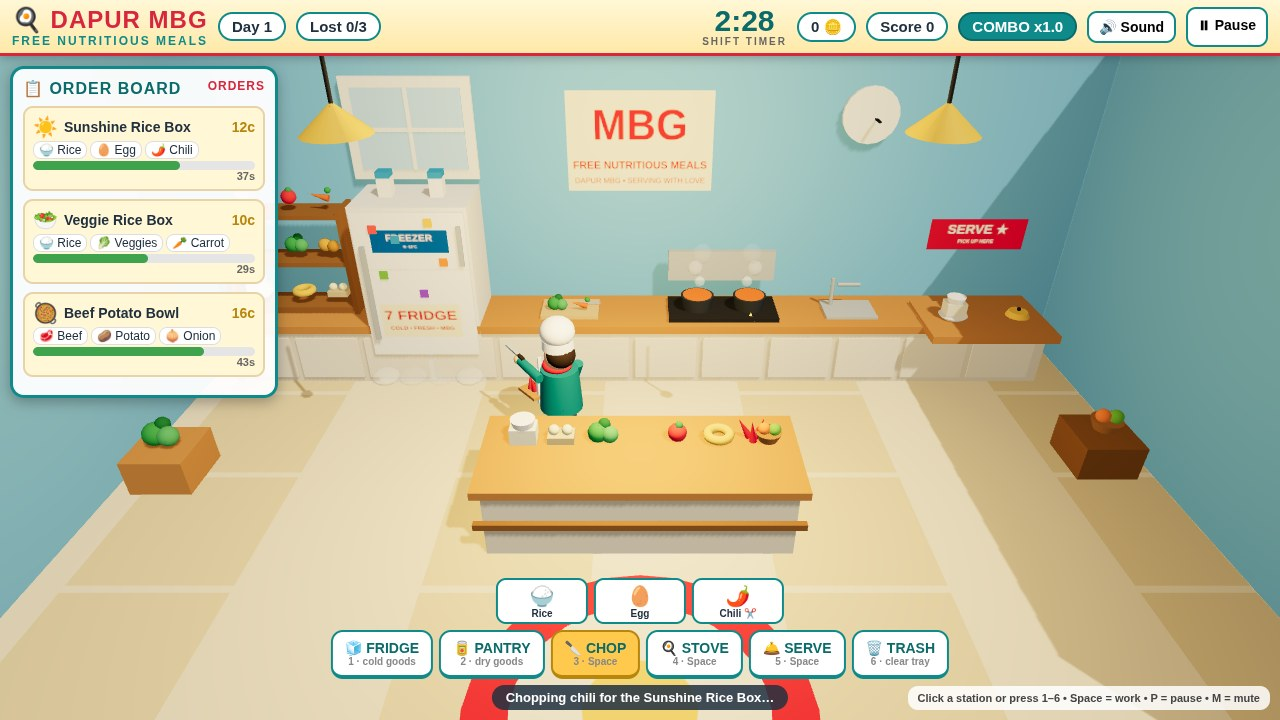
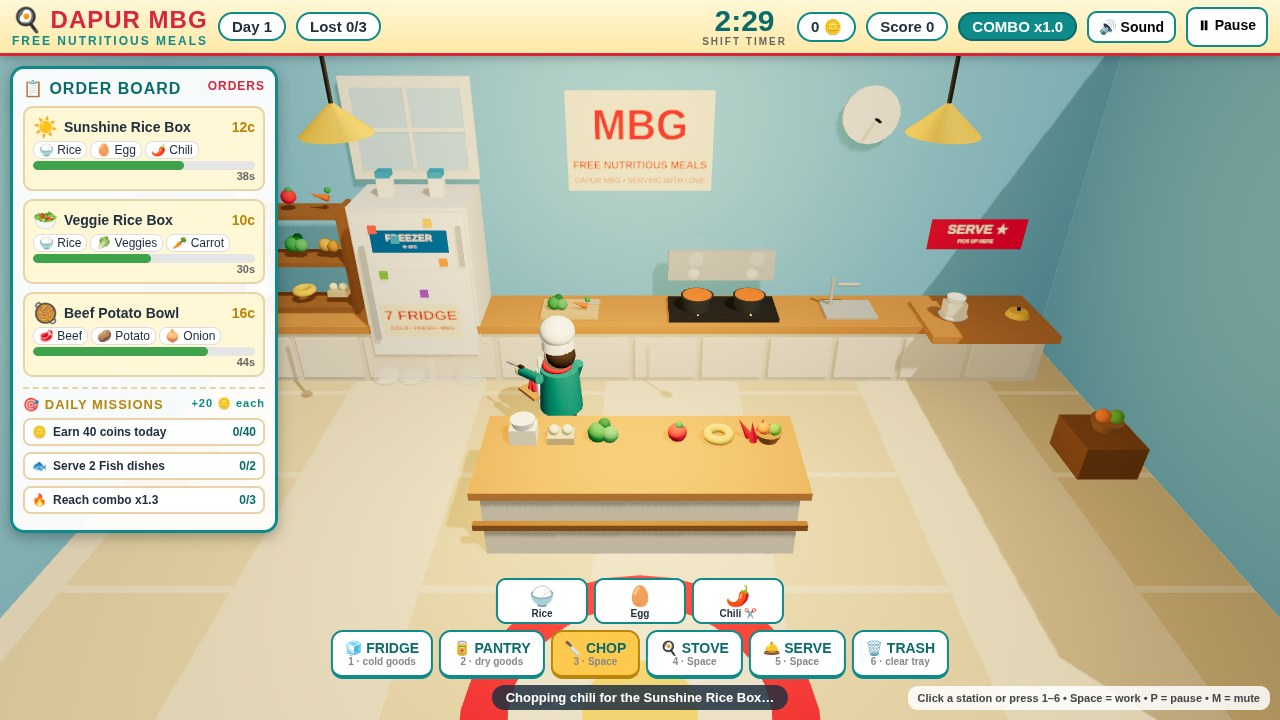
Add daily missions: 3 goals per day with bonus coins

Changed region(s): [[0.0, 0.5194, 0.2188, 0.7639], [0.375, 0.4889, 0.4375, 0.55]]

diff --git a/game/src/game.js b/game/src/game.js
@@ -5,6 +5,7 @@ import { INGREDIENTS, DISHES, STATIONS, MAX_TRAY, findDish, FRIDGE_ITEMS, PANTRY
 import { buildKitchen, buildIngredientProp, buildPlatedDish } from './kitchen.js';
 import { buildChef } from './chef.js';
 import { createOrderManager } from './orders.js';
+import { createMissionManager, MISSION_BONUS } from './missions.js';
 import * as SFX from './audio.js';
 
 const $ = (id) => document.getElementById(id);
@@ -23,6 +24,7 @@ let state = 'title'; // title | playing | paused | over
 let busyUntil = 0; // action lock timestamp (performance.now ms)
 let busyKind = '';
 let orderMgr;
+let missionMgr;
 let lastTickSecond = -1;
 
 function now() { return performance.now(); }
@@ -81,6 +83,7 @@ function init() {
   });
 
   orderMgr = createOrderManager(onOrderEvent);
+  missionMgr = createMissionManager(onMissionEvent);
   bindUI();
   clock = new THREE.Clock();
   addEventListener('resize', onResize);
@@ -259,11 +262,40 @@ function hidePicker() { $('picker').classList.add('hidden'); }
 // ---------- orders / HUD ----------
 function onOrderEvent(type, data) {
   if (type === 'order') SFX.playDing();
-  if (type === 'lost') { SFX.playFail(); setHint(`Order lost: ${data.dish.name} — ${orderMgr.state().lost}/3 lost!`); }
-  if (type === 'day') { SFX.playWin(); setHint(`Day ${data} — more orders, faster!`); }
+  if (type === 'serve') missionMgr.onServe(data.dish, data.earned, data.combo);
+  if (type === 'lost') { missionMgr.onOrderLost(); SFX.playFail(); setHint(`Order lost: ${data.dish.name} — ${orderMgr.state().lost}/3 lost!`); }
+  if (type === 'day') { missionMgr.start(data); SFX.playWin(); setHint(`Day ${data} — new missions, more orders, faster!`); }
   if (type === 'over-lost') endGame(false, 'Too many lost orders!');
   if (type === 'over-time') endGame(true, 'Shift complete!');
   renderOrders(); updateHUD();
+}
+
+// Missions never interrupt play: the bonus lands as coins + a hint toast.
+function onMissionEvent(type, data) {
+  if (type === 'mission-complete') {
+    orderMgr.addCoins(MISSION_BONUS);
+    SFX.playCoin();
+    setHint(`🎯 Mission complete: ${data.title} — +${MISSION_BONUS} bonus coins!`);
+    updateHUD();
+  }
+  renderMissions();
+}
+
+function renderMissions() {
+  const list = $('mission-list');
+  if (!list) return;
+  const st = missionMgr.state();
+  list.innerHTML = '';
+  if (!st.missions.length) {
+    list.innerHTML = '<div class="mission"><span>🎯</span><span>Missions start when the shift starts.</span></div>';
+    return;
+  }
+  for (const m of st.missions) {
+    const row = document.createElement('div');
+    row.className = 'mission' + (m.done ? ' done' : '');
+    row.innerHTML = `<span>${m.icon}</span><span>${m.title}</span><span class="m-prog">${m.done ? '✓ DONE' : `${m.progress}/${m.target}`}</span>`;
+    list.appendChild(row);
+  }
 }
 
 function renderOrders() {
@@ -282,6 +314,7 @@ function renderOrders() {
     board.appendChild(card);
   }
   if (!st.orders.length) board.innerHTML = '<div class="order-empty">No orders yet…</div>';
+  renderMissions();
 }
 
 function updateHUD() {
@@ -322,6 +355,7 @@ function setHint(t) { $('hint').textContent = t; }
 function startGame() {
   SFX.ensureAudio(); SFX.playStart();
   orderMgr.start();
+  missionMgr.start(1);
   tray = []; clearPlate(); refreshTrayProps();
   chef.group.position.set(0, 0, 1.6);
   chefStation = null; chefTarget = null;
@@ -340,7 +374,7 @@ function endGame(finished, reason) {
   SFX.playWin();
   const st = orderMgr.state();
   $('final-reason').textContent = reason;
-  $('final-stats').innerHTML = `Coins <b>${st.coins}</b> &nbsp;•&nbsp; Score <b>${st.score}</b> &nbsp;•&nbsp; Served <b>${st.served}</b> &nbsp;•&nbsp; Best combo <b>x${(1 + Math.min(st.bestCombo, 10) * 0.1).toFixed(1)}</b> &nbsp;•&nbsp; Day <b>${st.day}</b>`;
+  $('final-stats').innerHTML = `Coins <b>${st.coins}</b> &nbsp;•&nbsp; Score <b>${st.score}</b> &nbsp;•&nbsp; Served <b>${st.served}</b> &nbsp;•&nbsp; Best combo <b>x${(1 + Math.min(st.bestCombo, 10) * 0.1).toFixed(1)}</b> &nbsp;•&nbsp; Day <b>${st.day}</b> &nbsp;•&nbsp; Missions <b>${missionMgr.state().doneCount}/3</b>`;
   $('gameover-screen').classList.remove('hidden');
   updateHUD();
 }
@@ -412,7 +446,10 @@ function applyShot(shot) {
     $('dock').style.transform = 'none';
     camera.position.set(1.1, 6.6, 6.6);
     camera.lookAt(-0.5, 0.9, -3.0);
-    forceOrders([['sunshine-rice', 48], ['chicken-noodle', 40], ['beef-potato', 22], ['fruit-milk', 33]]);
+    // 3 orders, not 4: the board now also carries the missions panel, and a
+    // 4th order pushes the panel's bottom rows under the dock's PLATED banner.
+    forceOrders([['sunshine-rice', 48], ['chicken-noodle', 40], ['beef-potato', 22]]);
+    missionMgr.stageShot(); // cover shows the missions panel mid-progress, one done
     plateDish(DISHES[0]); // Sunshine Rice Box, garnished + steaming, on the island
     plateMesh.position.set(-1.2, 1.02, -0.7); // left end of the island, in the open
     forceTray([['rice', false, false], ['egg', false, false], ['chili', true, false]]);
@@ -516,6 +553,7 @@ window.__mbg = {
   station: () => chefStation,
   tray: () => tray.map((t) => t.id),
   plated: () => (plated ? plated.id : null),
+  missions: () => missionMgr.state(),
 };
 
 init();

diff --git a/game/src/missions.js b/game/src/missions.js
@@ -1,0 +1,112 @@
+// missions.js — daily missions: 3 goals per day, deterministic per day number
+// (every player on day N sees the same 3), +20 bonus coins each.
+// A mission never blocks play: progress updates silently on serve / lost /
+// combo events, and the bonus lands with a toast in the hint bar.
+export const MISSION_BONUS = 20;
+
+const FAMILIES = [
+  { id: 'fish',    label: 'Fish',    icon: '🐟', dishes: ['fried-fish'] },
+  { id: 'chicken', label: 'Chicken', icon: '🍗', dishes: ['chicken-noodle'] },
+  { id: 'beef',    label: 'Beef',    icon: '🥩', dishes: ['beef-potato', 'beef-tomato'] },
+  { id: 'veggie',  label: 'Veggie',  icon: '🥗', dishes: ['veggie-rice', 'sunny-noodle'] },
+  { id: 'egg',     label: 'Egg',     icon: '🍳', dishes: ['sunshine-rice', 'golden-omelette', 'fruit-milk'] },
+];
+
+function familyOf(dishId) {
+  const f = FAMILIES.find((fam) => fam.dishes.includes(dishId));
+  return f ? f.id : null;
+}
+
+// Pool of mission types. Each make() returns { icon, title, target } (+ family
+// for the family type). Targets are tuned to one day of play: a day lasts
+// exactly 4 serves, a dish pays ~10–16 coins, so every target must be
+// reachable within 4 serves — the combo target is 3, never 5.
+const POOL = [
+  { type: 'serve-count', make: () => ({ icon: '🍽', title: 'Serve 3 dishes', target: 3 }) },
+  { type: 'serve-family', make: (day) => {
+      const f = FAMILIES[(day * 7 + 3) % FAMILIES.length];
+      return { icon: f.icon, title: `Serve 2 ${f.label} dishes`, target: 2, family: f.id };
+    } },
+  { type: 'combo', make: () => ({ icon: '🔥', title: 'Reach combo x1.3', target: 3 }) },
+  { type: 'no-lost', make: () => ({ icon: '🛡', title: 'Serve 3 in a row, no lost order', target: 3 }) },
+  { type: 'earn-coins', make: () => ({ icon: '🪙', title: 'Earn 40 coins today', target: 40 }) },
+];
+
+// Seeded shuffle: the same day always picks the same 3 missions.
+function pickForDay(day) {
+  const pool = POOL.slice();
+  let s = (day * 2654435761) >>> 0;
+  for (let i = pool.length - 1; i > 0; i--) {
+    s = (Math.imul(s, 1664525) + 1013904223) >>> 0;
+    const j = s % (i + 1);
+    [pool[i], pool[j]] = [pool[j], pool[i]];
+  }
+  return pool.slice(0, 3).map((def) => ({ type: def.type, ...def.make(day), progress: 0, done: false }));
+}
+
+export function createMissionManager(onEvent) {
+  let day = 1;
+  let missions = [];
+  let servedToday = 0;
+  let coinsToday = 0;
+  let streak = 0; // serves in a row since the last lost order
+  let bestComboToday = 0;
+  let familyServed = {};
+
+  function start(dayNum) {
+    day = dayNum;
+    servedToday = 0; coinsToday = 0; streak = 0; bestComboToday = 0; familyServed = {};
+    missions = pickForDay(dayNum);
+    onEvent('missions', missions);
+  }
+
+  function progressOf(m) {
+    switch (m.type) {
+      case 'serve-count': return servedToday;
+      case 'serve-family': return familyServed[m.family] || 0;
+      case 'combo': return bestComboToday;
+      case 'no-lost': return streak;
+      case 'earn-coins': return coinsToday;
+      default: return 0;
+    }
+  }
+
+  function refresh() {
+    for (const m of missions) {
+      if (m.done) continue;
+      m.progress = Math.min(progressOf(m), m.target);
+      if (m.progress >= m.target) { m.done = true; onEvent('mission-complete', m); }
+    }
+    onEvent('missions', missions);
+  }
+
+  // Only serves that match an order count (a plate nobody ordered is +2 pity
+  // points and must not advance missions).
+  function onServe(dish, earned, combo) {
+    servedToday += 1;
+    coinsToday += earned;
+    streak += 1;
+    bestComboToday = Math.max(bestComboToday, combo);
+    const fam = familyOf(dish.id);
+    if (fam) familyServed[fam] = (familyServed[fam] || 0) + 1;
+    refresh();
+  }
+
+  function onOrderLost() { streak = 0; refresh(); }
+
+  // Staging hook for the ?shot=start cover: show the panel mid-progress
+  // (one mission already done) without awarding any bonus.
+  function stageShot() {
+    if (missions[0]) { missions[0].progress = missions[0].target; missions[0].done = true; }
+    if (missions[1]) missions[1].progress = Math.max(1, missions[1].target - 1);
+    if (missions[2]) missions[2].progress = 1;
+    onEvent('missions', missions);
+  }
+
+  function state() {
+    return { day, missions, servedToday, coinsToday, streak, bestComboToday,
+      doneCount: missions.filter((m) => m.done).length };
+  }
+
+  return { start, onServe, onOrderLost, stageShot, state };
+}

diff --git a/game/index.html b/game/index.html
@@ -50,6 +50,16 @@
   .patience-num { font-size: 11px; font-weight: 800; color: #666; text-align: right; }
   .order-empty { color: #888; font-size: 13px; text-align: center; padding: 8px; }
 
+  /* ---- daily missions (inside the order board) ---- */
+  #missions { margin-top: 10px; border-top: 2px dashed #e8d3a8; padding-top: 8px; }
+  #missions h3 { font-size: 13px; color: #b8860b; letter-spacing: 1px; margin-bottom: 6px; }
+  #missions h3 span { float: right; font-size: 11px; color: #0f8a8a; }
+  .mission { display: flex; align-items: center; gap: 6px; background: #fff; border: 2px solid #e8d3a8;
+    border-radius: 8px; padding: 5px 7px; margin-bottom: 6px; font-size: 12px; font-weight: 700; }
+  .mission.done { background: #e6f7e6; border-color: #3fa34d; }
+  .mission .m-prog { margin-left: auto; font-weight: 900; color: #0b6b6b; white-space: nowrap; }
+  .mission.done .m-prog { color: #3fa34d; }
+
   /* ---- bottom dock: tray + stations ---- */
   #dock { position: fixed; left: 50%; transform: translateX(-50%); bottom: 10px; z-index: 10;
     display: flex; flex-direction: column; align-items: center; gap: 6px; }
@@ -121,6 +131,10 @@
 <div id="board">
   <h2>📋 ORDER BOARD <span id="board-count">ORDERS</span></h2>
   <div id="orders"></div>
+  <div id="missions">
+    <h3>🎯 DAILY MISSIONS <span>+20 🪙 each</span></h3>
+    <div id="mission-list"></div>
+  </div>
 </div>
 
 <div id="picker" class="hidden">
@@ -156,7 +170,8 @@
       🧊 <b>1 Fridge</b> — milk, fish, tofu, fruit &nbsp;•&nbsp; 🥫 <b>2 Pantry</b> — rice, noodle &amp; dry goods<br>
       🔪 <b>3 Chop</b> then 🍳 <b>4 Cook</b> what is on your tray &nbsp;•&nbsp; 🛎 <b>5 Serve</b> the plated dish<br>
       🖱 Click a station (or press 1–6) to send Chef Sari there &nbsp;•&nbsp; <b>Space</b> works at a station<br>
-      ⭐ Serve fast in a row to build your combo up to <b>x2.0</b> &nbsp;•&nbsp; <b>P</b> pause, <b>M</b> mute
+      ⭐ Serve fast in a row to build your combo up to <b>x2.0</b> &nbsp;•&nbsp; <b>P</b> pause, <b>M</b> mute<br>
+      🎯 <b>Daily missions</b> — finish 3 goals a day for <b>+20 bonus coins</b> each; a new set every day
     </div>
     <button class="big-btn" id="start-btn">▶ START SHIFT</button>
     <p style="margin-top:10px; font-size:12px; color:#888;">10 dishes • 16 ingredients • 150-second shifts • a new day every 4 serves</p>

diff --git a/game/src/orders.js b/game/src/orders.js
@@ -17,6 +17,8 @@ export function createOrderManager(onEvent) {
   let day = 1;
   let over = false;
 
+  function addCoins(n) { coins += n; } // mission bonus lands here
+
   function level() { return LEVELS[Math.min(day - 1, LEVELS.length - 1)]; }
   function timeLeft() { return Math.max(0, SHIFT_SECONDS - elapsed); }
 
@@ -85,5 +87,5 @@ export function createOrderManager(onEvent) {
   function setCoins(n) { coins = n; }
   function setCombo(n) { combo = n; comboTimer = 12; }
 
-  return { start, update, serveDish, state, spawnOrder, setElapsed, setCoins, setCombo };
+  return { start, update, serveDish, state, spawnOrder, setElapsed, setCoins, setCombo, addCoins };
 }
